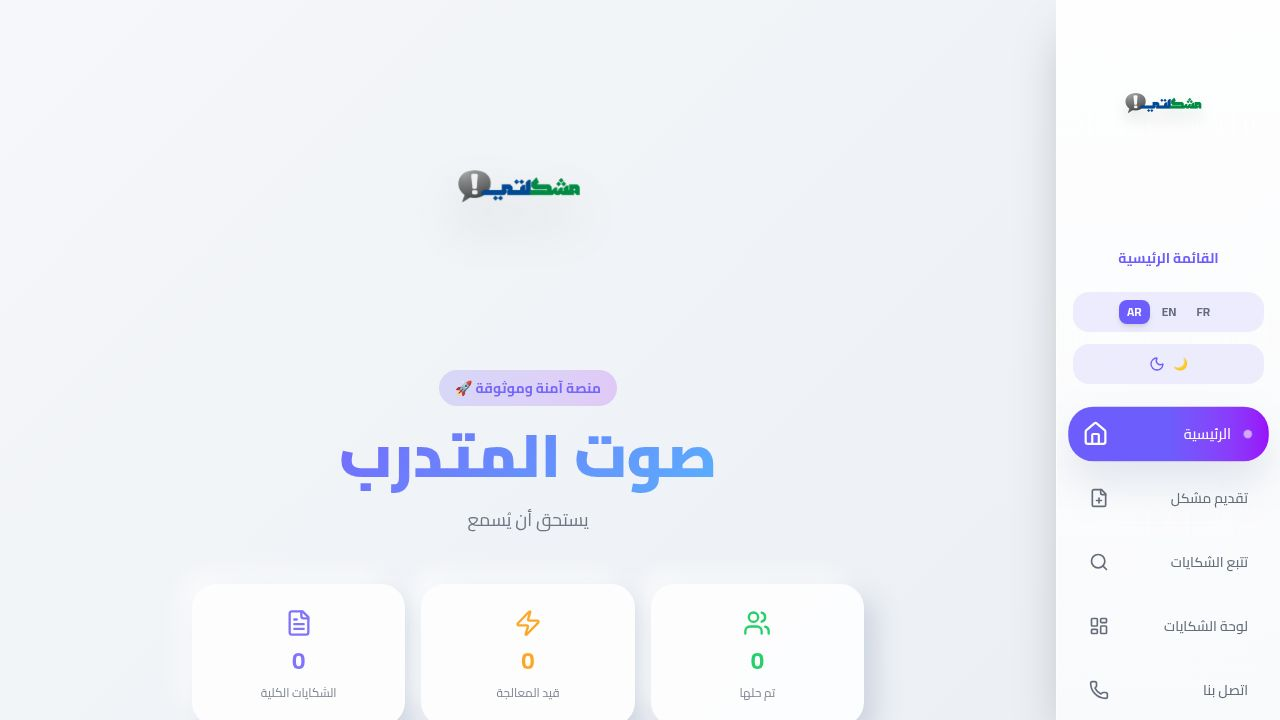
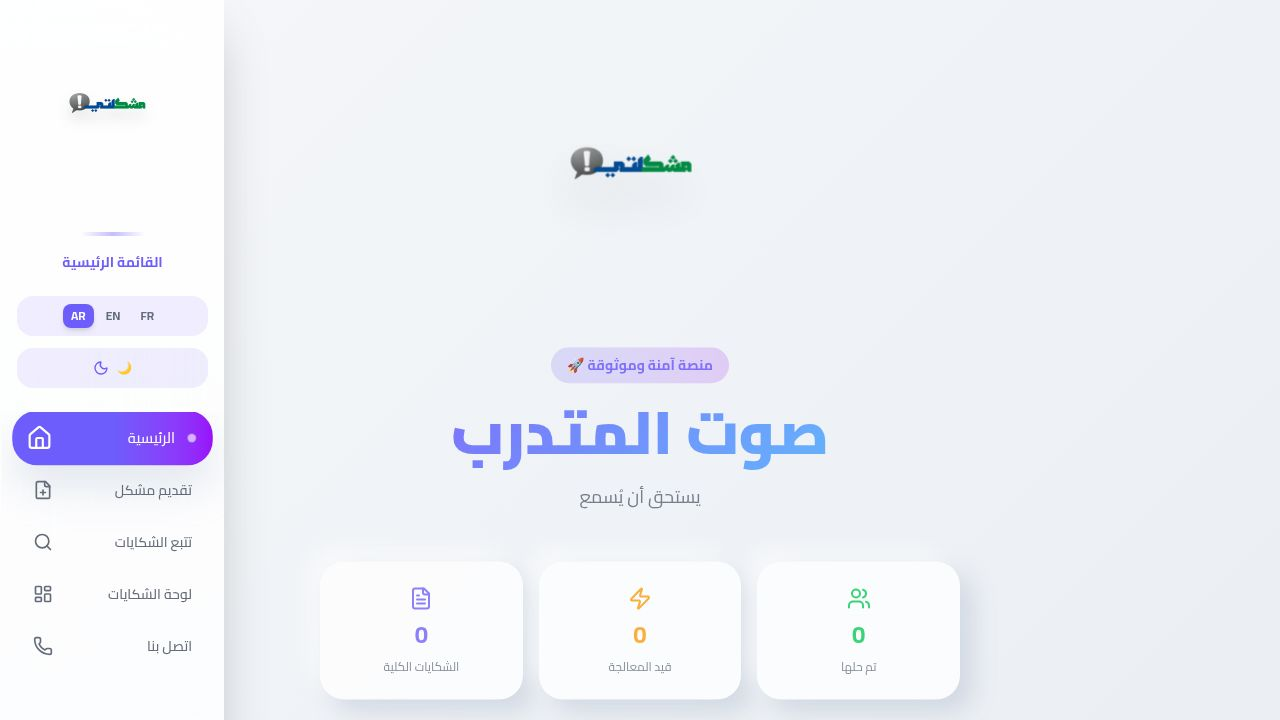
Improve layout and text visibility for all pages
Adjust main content padding, footer positioning, and z-index for mobile layouts to resolve text overlap and ensure visibility.

Replit-Commit-Author: Agent
Replit-Commit-Session-Id: 728d6717-7c14-4d0a-ae20-8eb144c42667
Replit-Commit-Checkpoint-Type: full_checkpoint
Replit-Commit-Event-Id: fda02d71-92a0-4069-9692-41457698325e
Replit-Commit-Screenshot-Url: https://storage.googleapis.com/screenshot-production-us-central1/ad9aadef-082d-4a14-9e0f-a7eeab7bfd15/728d6717-7c14-4d0a-ae20-8eb144c42667/O9lXO3W
Replit-Helium-Checkpoint-Created: true

diff --git a/client/src/components/layout.tsx b/client/src/components/layout.tsx
@@ -154,14 +154,14 @@ export function Layout({ children }: { children: React.ReactNode }) {
       </aside>
 
       {/* Main Content */}
-      <div className="flex-1 w-full lg:mr-56 flex flex-col min-h-screen relative z-0">
-        <main className="flex-1 w-full p-3 sm:p-4 md:p-6 lg:p-8 animate-in fade-in zoom-in-95 duration-500 overflow-x-hidden">
-          <div className="flex flex-col items-center text-center w-full">
+      <div className="flex-1 w-full lg:mr-56 flex flex-col min-h-screen relative z-0 overflow-y-auto">
+        <main className="flex-1 w-full px-3 sm:px-4 md:px-6 lg:px-8 pt-4 sm:pt-6 md:pt-8 lg:pt-10 pb-20 sm:pb-24 animate-in fade-in zoom-in-95 duration-500 overflow-x-hidden">
+          <div className="flex flex-col items-center text-center w-full max-w-6xl mx-auto">
             {children}
           </div>
         </main>
 
-        <footer className="py-4 sm:py-6 text-center text-muted-foreground text-xs sm:text-sm border-t border-white/20 dark:border-slate-700/60 px-3">
+        <footer className="py-4 sm:py-6 text-center text-muted-foreground text-xs sm:text-sm border-t border-white/20 dark:border-slate-700/60 px-3 mt-auto">
           <p>© 2025 منصة صوت المتدرب - جميع الحقوق محفوظة</p>
         </footer>
       </div>

diff --git a/client/src/pages/home.tsx b/client/src/pages/home.tsx
@@ -13,7 +13,7 @@ export default function Home() {
   const { language } = useLanguage();
 
   return (
-    <div className="flex flex-col items-center text-center space-y-6 sm:space-y-8 lg:space-y-12 py-4 sm:py-6 lg:py-8 mt-8 lg:mt-0 w-full">
+    <div className="flex flex-col items-center text-center space-y-6 sm:space-y-8 lg:space-y-12 w-full">
       {/* Logo Section */}
       <motion.div
         initial={{ opacity: 0, scale: 0.5, y: 30 }}
